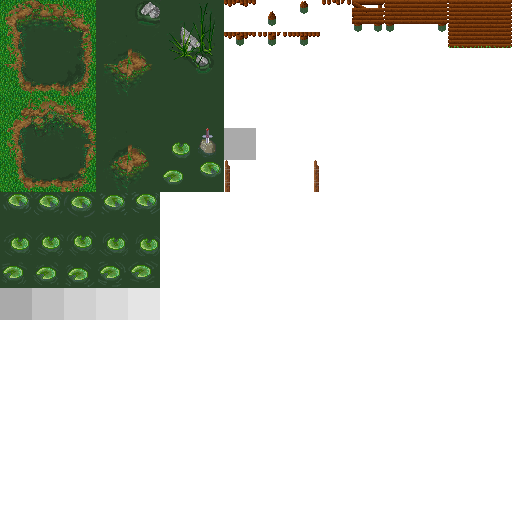
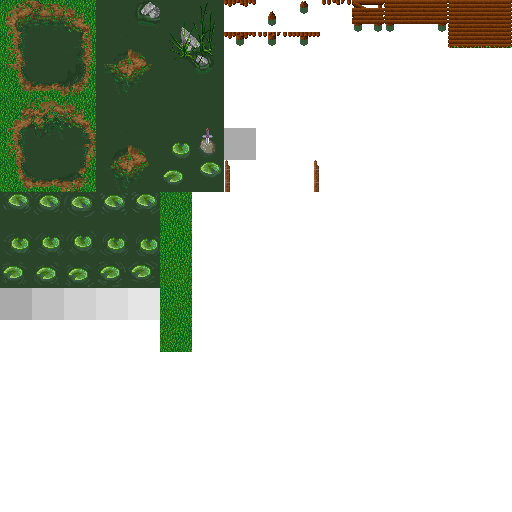
add terrain to woodland_swamp

Changed region(s): [[0.3125, 0.375, 0.375, 0.6875]]

diff --git a/tilesets/woodland_swamp.tsx b/tilesets/woodland_swamp.tsx
@@ -1,78 +1,38 @@
 <?xml version="1.0" encoding="UTF-8"?>
 <tileset name="woodland_swamp" tilewidth="32" tileheight="32">
  <image source="../graphics/tiles/woodland_swamp.png" width="512" height="512"/>
- <tile id="69">
-  <properties>
-   <property name="animation-delay0" value="32"/>
-   <property name="animation-delay1" value="37"/>
-   <property name="animation-delay2" value="33"/>
-   <property name="animation-delay3" value="38"/>
-   <property name="animation-delay4" value="40"/>
-   <property name="animation-frame0" value="112"/>
-   <property name="animation-frame1" value="113"/>
-   <property name="animation-frame2" value="114"/>
-   <property name="animation-frame3" value="115"/>
-   <property name="animation-frame4" value="116"/>
-  </properties>
- </tile>
- <tile id="71">
-  <properties>
-   <property name="animation-delay0" value="1200"/>
-   <property name="animation-delay1" value="3"/>
-   <property name="animation-delay10" value="3"/>
-   <property name="animation-delay11" value="3"/>
-   <property name="animation-delay12" value="3"/>
-   <property name="animation-delay13" value="3"/>
-   <property name="animation-delay2" value="3"/>
-   <property name="animation-delay3" value="3"/>
-   <property name="animation-delay4" value="3"/>
-   <property name="animation-delay5" value="3"/>
-   <property name="animation-delay6" value="3"/>
-   <property name="animation-delay7" value="3"/>
-   <property name="animation-delay8" value="3"/>
-   <property name="animation-delay9" value="3"/>
-   <property name="animation-frame0" value="144"/>
-   <property name="animation-frame1" value="145"/>
-   <property name="animation-frame10" value="148"/>
-   <property name="animation-frame11" value="146"/>
-   <property name="animation-frame12" value="147"/>
-   <property name="animation-frame13" value="148"/>
-   <property name="animation-frame2" value="146"/>
-   <property name="animation-frame3" value="147"/>
-   <property name="animation-frame4" value="148"/>
-   <property name="animation-frame5" value="147"/>
-   <property name="animation-frame6" value="146"/>
-   <property name="animation-frame7" value="147"/>
-   <property name="animation-frame8" value="146"/>
-   <property name="animation-frame9" value="147"/>
-  </properties>
- </tile>
- <tile id="85">
-  <properties>
-   <property name="animation-delay0" value="40"/>
-   <property name="animation-delay1" value="42"/>
-   <property name="animation-delay2" value="45"/>
-   <property name="animation-delay3" value="42"/>
-   <property name="animation-delay4" value="40"/>
-   <property name="animation-frame0" value="128"/>
-   <property name="animation-frame1" value="129"/>
-   <property name="animation-frame2" value="130"/>
-   <property name="animation-frame3" value="131"/>
-   <property name="animation-frame4" value="132"/>
-  </properties>
- </tile>
- <tile id="86">
-  <properties>
-   <property name="animation-delay0" value="25"/>
-   <property name="animation-delay1" value="27"/>
-   <property name="animation-delay2" value="24"/>
-   <property name="animation-delay3" value="27"/>
-   <property name="animation-delay4" value="28"/>
-   <property name="animation-frame0" value="96"/>
-   <property name="animation-frame1" value="97"/>
-   <property name="animation-frame2" value="98"/>
-   <property name="animation-frame3" value="99"/>
-   <property name="animation-frame4" value="100"/>
-  </properties>
- </tile>
+ <terraintypes>
+  <terrain name="grass" tile="101"/>
+  <terrain name="swamp" tile="53"/>
+ </terraintypes>
+ <tile id="0" terrain="0,0,0,1"/>
+ <tile id="1" terrain="0,0,1,1"/>
+ <tile id="2" terrain="0,0,1,0"/>
+ <tile id="16" terrain="0,1,0,1"/>
+ <tile id="17" terrain="1,1,1,1"/>
+ <tile id="18" terrain="1,0,1,0"/>
+ <tile id="19" terrain="1,1,1,0"/>
+ <tile id="20" terrain="1,1,0,1"/>
+ <tile id="32" terrain="0,1,0,0"/>
+ <tile id="33" terrain="1,1,0,0"/>
+ <tile id="34" terrain="1,0,0,0"/>
+ <tile id="35" terrain="1,0,1,1"/>
+ <tile id="36" terrain="0,1,1,1"/>
+ <tile id="48" terrain="0,0,0,"/>
+ <tile id="49" terrain="0,0,,"/>
+ <tile id="50" terrain="0,0,,0"/>
+ <tile id="64" terrain="0,,0,"/>
+ <tile id="66" terrain=",0,,0"/>
+ <tile id="67" terrain="1,1,1,0"/>
+ <tile id="68" terrain="1,1,0,1"/>
+ <tile id="80" terrain="0,,0,0"/>
+ <tile id="81" terrain=",,0,0"/>
+ <tile id="82" terrain=",0,0,0"/>
+ <tile id="83" terrain="1,0,1,1"/>
+ <tile id="84" terrain="0,1,1,1"/>
+ <tile id="101" terrain="0,0,0,0"/>
+ <tile id="117" terrain="0,0,0,0"/>
+ <tile id="133" terrain="0,0,0,0"/>
+ <tile id="149" terrain="0,0,0,0"/>
+ <tile id="165" terrain="0,0,0,0"/>
 </tileset>
